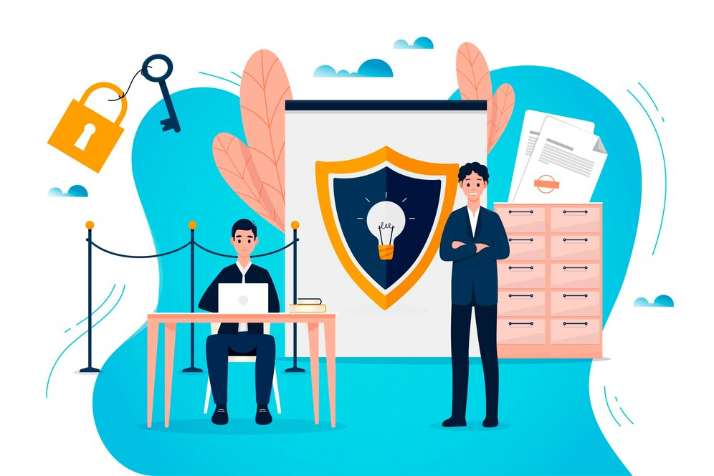
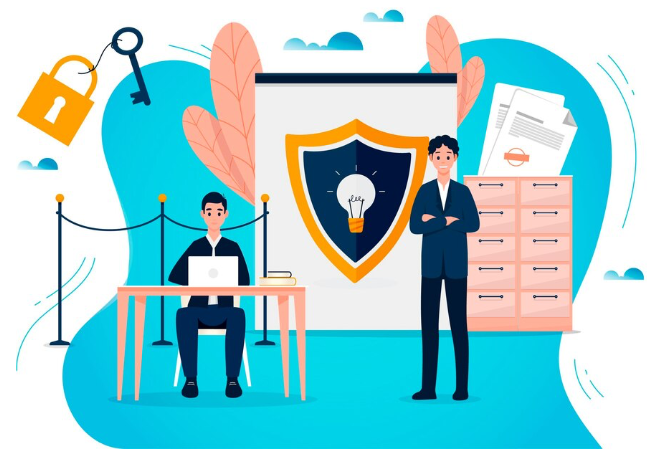
modify images

diff --git a/pages/quotes/sr22.tsx b/pages/quotes/sr22.tsx
@@ -6,7 +6,7 @@ import SimpleForm from '../../components/Forms/Simple/Simple';
 import PATHCONSTANTS from '../../constants/sitemap';
 import Sr22Img1 from "../../public/assets/images/quotes/sr22/sr1.png";
 import Sr22Img2 from "../../public/assets/images/quotes/sr22/sr2.png";
-import Sr22Img3 from "../../public/assets/images/quotes/sr22/sr3.png";
+import Sr22Img3 from "../../public/assets/images/quotes/home/home2.png";
 
 
 const bannerContent = {
@@ -235,8 +235,8 @@ const formContent = {
 export default function () {
     return <>
         <VerticalBanner {...bannerContent} />
-        <TwoColumn {...contentSection2} />
         <MainGrid {...contentSection3} />
+        <TwoColumn {...contentSection2} />
         <ContactAndShop quoteLink="#SR22-quote" />
 
         <SimpleForm {...formContent} />
